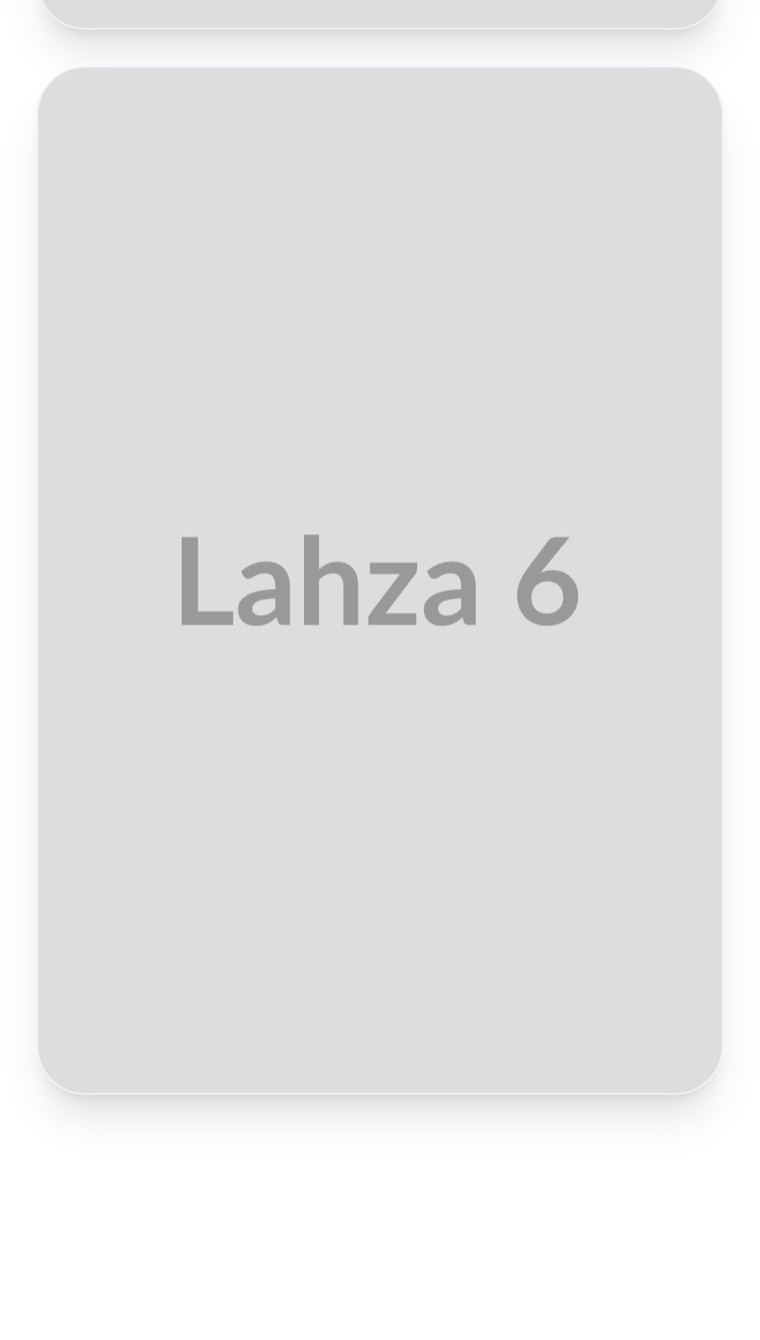
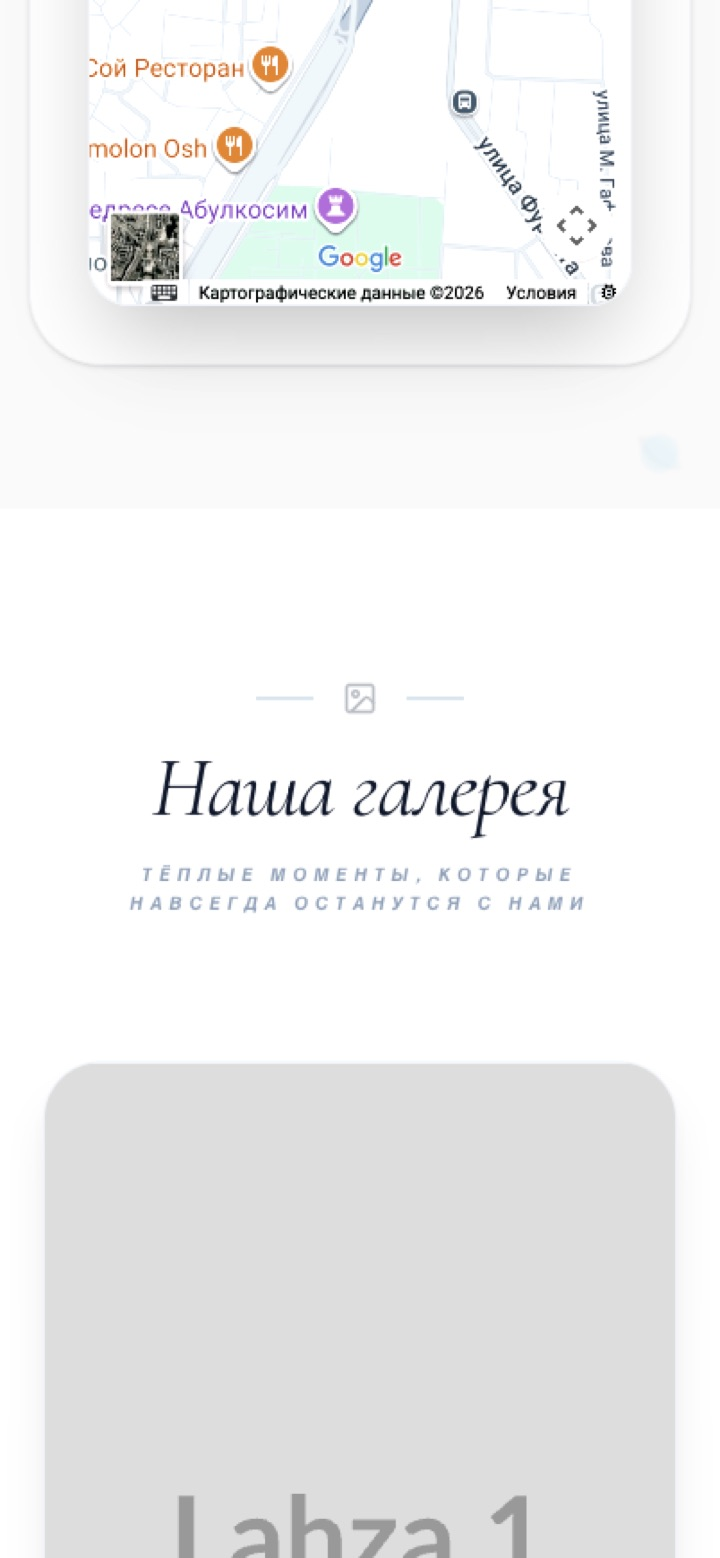
Снимки шаблонов в пропорции телефона, а не планшета
Кадры снимались при вьюпорте 500×882 — это 9:16, поэтому рамка выглядела
широкой. Пересняты при 402×870 (ровно 9:19.5), пропорция записана
в src/lib/shots.ts вместе с инструкцией по пересъёмке.

Изображения снимков переведены на unoptimized: они уже сжаты и подогнаны
по ширине, а оптимизатор Next кэшировал их по URL и после пересъёмки
продолжал отдавать прежний кадр даже при жёсткой перезагрузке.

diff --git a/src/lib/shots.ts b/src/lib/shots.ts
@@ -1,11 +1,12 @@
 /**
  * Снимки реальных демо-шаблонов. Это не рисунки и не стоки — ровно те экраны,
- * которые увидит гость, снятые при ширине 500px.
+ * которые увидит гость.
  *
- * Пересъёмка: открыть демо в браузере шириной 500px, сохранить кадр сюда
- * и прогнать через `sips --resampleWidth 760 --setProperty format jpeg`.
+ * Пересъёмка: снимать при вьюпорте 402×870 — это ровно 9:19.5, пропорция
+ * телефона. При другом соотношении рамка выглядит широкой, как у планшета.
+ * Затем `sips --resampleWidth 720 --setProperty format jpeg`.
  */
-export const SHOT = { width: 760, height: 1340 } as const;
+export const SHOT = { width: 720, height: 1558 } as const;
 
 export type Shot = {
   src: string;

diff --git a/src/components/Screen.tsx b/src/components/Screen.tsx
@@ -25,6 +25,9 @@ export default function Screen({
         height={SHOT.height}
         sizes={sizes}
         priority={priority}
+        // Снимки уже сжаты и подогнаны по ширине — оптимизатор ничего не добавит,
+        // зато кэширует их по URL и отдаёт прежний кадр после пересъёмки.
+        unoptimized
         className="block h-auto w-full"
       />
     </PhoneFrame>
